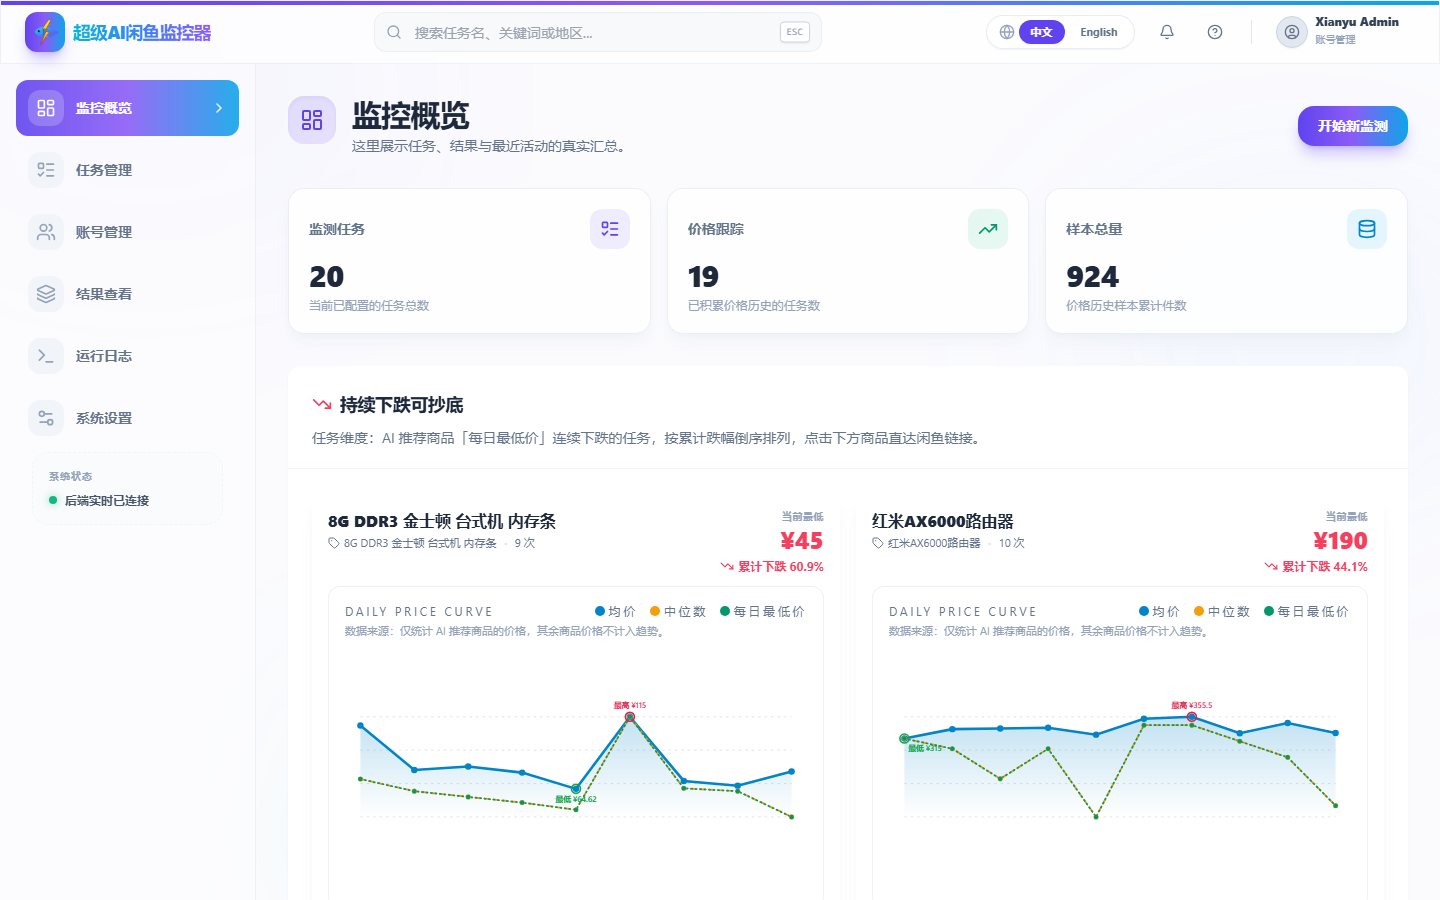
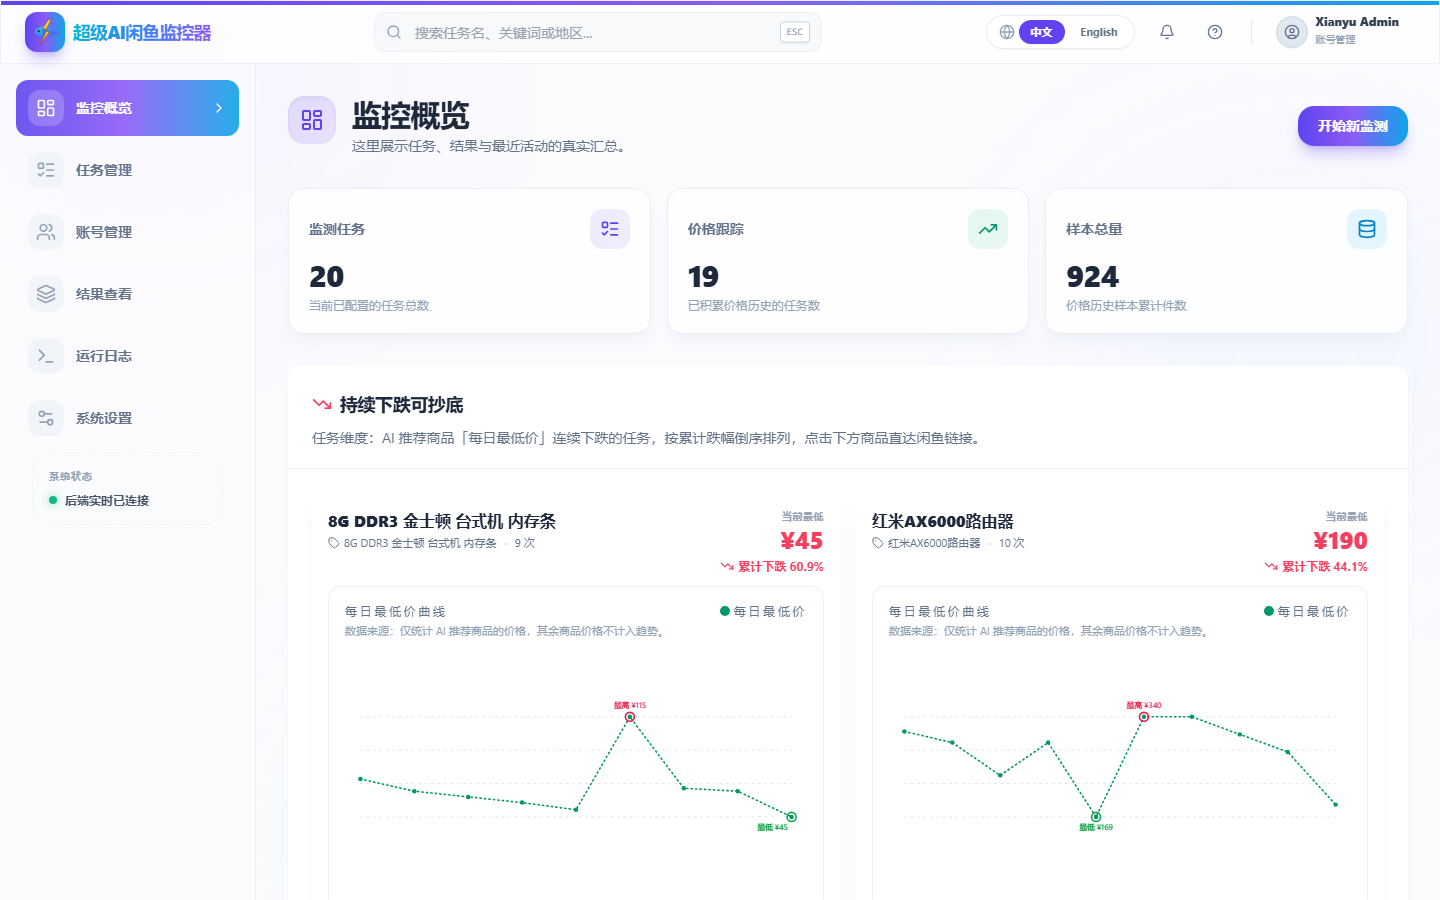
feat(dashboard): 抄底卡片图表简化为「每日最低价曲线 + 最高最低标记」
PriceTrendChart 新增 mode 属性（'full' | 'min-only'）：
- full（默认，原行为）：均价 / 中位数 / 每日最低价 三条线 + 极值标记
- min-only：仅绘制每日最低价单条线，极值标记基准改为 min_price 曲线
- 顶部 legend、SVG paths/area/circles 全部按 mode 条件渲染，互不影响

DashboardView 抄底卡片启用 mode="min-only"，dipChartPoints 把 avg/median 置 null
（min-only 模式下本来就不会渲染，但显式置 null 可避免日均数据干扰曲线判定）。

新增 results.chart.dipHeader i18n key（zh/en）。

同步刷新 dashboard-top/dashboard-overview/tasks-overview 截图。

diff --git a/web-ui/src/components/results/PriceTrendChart.vue b/web-ui/src/components/results/PriceTrendChart.vue
@@ -9,10 +9,17 @@ interface TrendPoint {
   min_price?: number | null
 }
 
-const props = defineProps<{
-  points: TrendPoint[]
-}>()
+type ChartMode = 'full' | 'min-only'
+
+const props = withDefaults(
+  defineProps<{
+    points: TrendPoint[]
+    mode?: ChartMode
+  }>(),
+  { mode: 'full' },
+)
 const { t } = useI18n()
+const isMinOnly = computed(() => props.mode === 'min-only')
 
 const chartWidth = 720
 const chartHeight = 240
@@ -24,14 +31,25 @@ const axisLabelHeight = 20
 const extremeLabelGap = 30
 const plotBottom = chartHeight - axisLabelHeight - extremeLabelGap
 
-const validPoints = computed(() =>
-  props.points.filter((point) => point.avg_price !== null && point.avg_price !== undefined)
-)
+const validPoints = computed(() => {
+  if (isMinOnly.value) {
+    return props.points.filter(
+      (point) => typeof point.min_price === 'number',
+    )
+  }
+  return props.points.filter(
+    (point) => point.avg_price !== null && point.avg_price !== undefined,
+  )
+})
 
 const valueRange = computed(() => {
-  const values = validPoints.value
-    .flatMap((point) => [point.avg_price, point.median_price, point.min_price])
-    .filter((value): value is number => typeof value === 'number')
+  const values = isMinOnly.value
+    ? validPoints.value
+        .map((point) => point.min_price)
+        .filter((value): value is number => typeof value === 'number')
+    : validPoints.value
+        .flatMap((point) => [point.avg_price, point.median_price, point.min_price])
+        .filter((value): value is number => typeof value === 'number')
   if (values.length === 0) {
     return { min: 0, max: 1 }
   }
@@ -82,11 +100,15 @@ function buildPath(values: Array<number | null>) {
   return commands.join(' ')
 }
 
-const avgPath = computed(() => buildPath(validPoints.value.map((point) => point.avg_price)))
-const medianPath = computed(() => buildPath(validPoints.value.map((point) => point.median_price)))
+const avgPath = computed(() =>
+  isMinOnly.value ? '' : buildPath(validPoints.value.map((point) => point.avg_price)),
+)
+const medianPath = computed(() =>
+  isMinOnly.value ? '' : buildPath(validPoints.value.map((point) => point.median_price)),
+)
 // 每日最低价：当天 AI 推荐商品中价格最低的那一件，用于观察"底价"走势。
 const minPath = computed(() =>
-  buildPath(validPoints.value.map((point) => (typeof point.min_price === 'number' ? point.min_price : null)))
+  buildPath(validPoints.value.map((point) => (typeof point.min_price === 'number' ? point.min_price : null))),
 )
 const areaPath = computed(() => {
   if (!avgPath.value || validPoints.value.length === 0) return ''
@@ -100,14 +122,25 @@ interface ExtremePoint {
   point: TrendPoint
 }
 
-// 最高价/最低价标记：以 AI 推荐商品的均价曲线为准，标出曲线中的极值点。
+// 极值标记基准曲线：min-only 模式下使用 min_price 曲线，否则用 avg_price 曲线。
+function extremeValue(point: TrendPoint): number | null {
+  if (isMinOnly.value) {
+    return typeof point.min_price === 'number' ? point.min_price : null
+  }
+  return typeof point.avg_price === 'number' ? point.avg_price : null
+}
+
+// 最高价/最低价标记：在基准曲线上标出极值点。
 const highPoint = computed<ExtremePoint | null>(() => {
   const points = validPoints.value
   let best: ExtremePoint | null = null
   for (let index = 0; index < points.length; index += 1) {
     const point = points[index]
-    if (!point || typeof point.avg_price !== 'number') continue
-    if (!best || point.avg_price > (best.point.avg_price as number)) {
+    if (!point) continue
+    const value = extremeValue(point)
+    if (value === null) continue
+    const bestValue = best ? extremeValue(best.point) : null
+    if (bestValue === null || value > bestValue) {
       best = { index, point }
     }
   }
@@ -119,32 +152,47 @@ const lowPoint = computed<ExtremePoint | null>(() => {
   let best: ExtremePoint | null = null
   for (let index = 0; index < points.length; index += 1) {
     const point = points[index]
-    if (!point || typeof point.avg_price !== 'number') continue
-    if (!best || point.avg_price < (best.point.avg_price as number)) {
+    if (!point) continue
+    const value = extremeValue(point)
+    if (value === null) continue
+    const bestValue = best ? extremeValue(best.point) : null
+    if (bestValue === null || value < bestValue) {
       best = { index, point }
     }
   }
   return best
 })
+
+function extremePrice(point: TrendPoint): number | null {
+  return extremeValue(point)
+}
 </script>
 
 <template>
   <div class="app-surface-subtle p-4">
     <div class="mb-1 flex flex-col gap-3 text-xs uppercase tracking-[0.22em] text-slate-500 sm:flex-row sm:items-center sm:justify-between">
-      <span>Daily Price Curve</span>
+      <span>{{ isMinOnly ? t('results.chart.dipHeader') : 'Daily Price Curve' }}</span>
       <div class="flex items-center gap-3">
-        <span class="inline-flex items-center gap-1">
-          <span class="h-2.5 w-2.5 rounded-full bg-sky-600" />
-          {{ t('results.chart.avgPrice') }}
-        </span>
-        <span class="inline-flex items-center gap-1">
-          <span class="h-2.5 w-2.5 rounded-full bg-amber-500" />
-          {{ t('results.chart.medianPrice') }}
-        </span>
-        <span class="inline-flex items-center gap-1">
-          <span class="h-2.5 w-2.5 rounded-full bg-emerald-600" />
-          {{ t('results.chart.minPrice') }}
-        </span>
+        <template v-if="isMinOnly">
+          <span class="inline-flex items-center gap-1">
+            <span class="h-2.5 w-2.5 rounded-full bg-emerald-600" />
+            {{ t('results.chart.minPrice') }}
+          </span>
+        </template>
+        <template v-else>
+          <span class="inline-flex items-center gap-1">
+            <span class="h-2.5 w-2.5 rounded-full bg-sky-600" />
+            {{ t('results.chart.avgPrice') }}
+          </span>
+          <span class="inline-flex items-center gap-1">
+            <span class="h-2.5 w-2.5 rounded-full bg-amber-500" />
+            {{ t('results.chart.medianPrice') }}
+          </span>
+          <span class="inline-flex items-center gap-1">
+            <span class="h-2.5 w-2.5 rounded-full bg-emerald-600" />
+            {{ t('results.chart.minPrice') }}
+          </span>
+        </template>
       </div>
     </div>
     <p class="mb-3 text-[11px] normal-case tracking-normal text-slate-400">
@@ -177,14 +225,16 @@ const lowPoint = computed<ExtremePoint | null>(() => {
           />
         </g>
 
-        <path :d="areaPath" fill="url(#avg-area-fill)" />
-        <path :d="avgPath" fill="none" stroke="#0284c7" stroke-width="4" stroke-linecap="round" />
-        <path :d="medianPath" fill="none" stroke="#f59e0b" stroke-width="3" stroke-dasharray="8 6" stroke-linecap="round" />
+        <path v-if="!isMinOnly" :d="areaPath" fill="url(#avg-area-fill)" />
+        <path v-if="!isMinOnly" :d="avgPath" fill="none" stroke="#0284c7" stroke-width="4" stroke-linecap="round" />
+        <path v-if="!isMinOnly" :d="medianPath" fill="none" stroke="#f59e0b" stroke-width="3" stroke-dasharray="8 6" stroke-linecap="round" />
         <path :d="minPath" fill="none" stroke="#059669" stroke-width="2.5" stroke-dasharray="2 5" stroke-linecap="round" />
 
         <g v-for="(point, index) in validPoints" :key="point.day">
-          <circle :cx="resolveX(index)" :cy="resolveY(point.avg_price as number)" r="5" fill="#0284c7" />
-          <circle :cx="resolveX(index)" :cy="resolveY(point.median_price as number)" r="4" fill="#f59e0b" />
+          <template v-if="!isMinOnly">
+            <circle :cx="resolveX(index)" :cy="resolveY(point.avg_price as number)" r="5" fill="#0284c7" />
+            <circle :cx="resolveX(index)" :cy="resolveY(point.median_price as number)" r="4" fill="#f59e0b" />
+          </template>
           <circle
             v-if="typeof point.min_price === 'number'"
             :cx="resolveX(index)"
@@ -207,7 +257,7 @@ const lowPoint = computed<ExtremePoint | null>(() => {
         <g v-if="highPoint">
           <circle
             :cx="resolveX(highPoint.index)"
-            :cy="resolveY(highPoint.point.avg_price as number)"
+            :cy="resolveY(extremePrice(highPoint.point) as number)"
             r="7"
             fill="none"
             stroke="#e11d48"
@@ -215,13 +265,13 @@ const lowPoint = computed<ExtremePoint | null>(() => {
           />
           <text
             :x="labelX(highPoint.index)"
-            :y="resolveY(highPoint.point.avg_price as number) - 14"
+            :y="resolveY(extremePrice(highPoint.point) as number) - 14"
             :text-anchor="labelAnchor(highPoint.index)"
             fill="#e11d48"
             font-size="12"
             font-weight="600"
           >
-            {{ t('results.chart.highMark', { price: highPoint.point.avg_price }) }}
+            {{ t('results.chart.highMark', { price: extremePrice(highPoint.point) }) }}
           </text>
         </g>
 
@@ -229,7 +279,7 @@ const lowPoint = computed<ExtremePoint | null>(() => {
         <g v-if="lowPoint && lowPoint.index !== highPoint?.index">
           <circle
             :cx="resolveX(lowPoint.index)"
-            :cy="resolveY(lowPoint.point.avg_price as number)"
+            :cy="resolveY(extremePrice(lowPoint.point) as number)"
             r="7"
             fill="none"
             stroke="#16a34a"
@@ -237,13 +287,13 @@ const lowPoint = computed<ExtremePoint | null>(() => {
           />
           <text
             :x="labelX(lowPoint.index)"
-            :y="resolveY(lowPoint.point.avg_price as number) + 20"
+            :y="resolveY(extremePrice(lowPoint.point) as number) + 20"
             :text-anchor="labelAnchor(lowPoint.index)"
             fill="#16a34a"
             font-size="12"
             font-weight="600"
           >
-            {{ t('results.chart.lowMark', { price: lowPoint.point.avg_price }) }}
+            {{ t('results.chart.lowMark', { price: extremePrice(lowPoint.point) }) }}
           </text>
         </g>
       </svg>

diff --git a/web-ui/src/views/DashboardView.vue b/web-ui/src/views/DashboardView.vue
@@ -54,8 +54,8 @@ function goCreateTask() {
 function dipChartPoints(task: { trend: Array<{ day: string; min_price: number; avg_price: number | null; sample_count: number }> }) {
   return task.trend.map((point) => ({
     day: point.day.slice(5),
-    avg_price: point.avg_price ?? point.min_price,
-    median_price: point.min_price,
+    avg_price: null,
+    median_price: null,
     min_price: point.min_price,
   }))
 }
@@ -143,7 +143,7 @@ function dipChartPoints(task: { trend: Array<{ day: string; min_price: number; a
             </div>
 
             <!-- Trend chart (daily min price curve) -->
-            <PriceTrendChart class="mt-3" :points="dipChartPoints(task)" />
+            <PriceTrendChart class="mt-3" :points="dipChartPoints(task)" mode="min-only" />
 
             <!-- Lowest-priced AI-recommended item in this task -->
             <div class="mt-3 rounded-xl border border-dashed border-rose-200 bg-rose-50/40 p-3">

diff --git a/web-ui/src/i18n/messages/zh-CN.ts b/web-ui/src/i18n/messages/zh-CN.ts
@@ -188,6 +188,7 @@ const zhCN = {
       avgPrice: '均价',
       medianPrice: '中位数',
       minPrice: '每日最低价',
+      dipHeader: '每日最低价曲线',
       noTrend: '暂无可绘制的趋势数据',
       aiSourceNote: '数据来源：仅统计 AI 推荐商品的价格，其余商品价格不计入趋势。',
       highMark: '最高 ¥{price}',

diff --git a/web-ui/src/i18n/messages/en-US.ts b/web-ui/src/i18n/messages/en-US.ts
@@ -188,6 +188,7 @@ const enUS = {
       avgPrice: 'Average',
       medianPrice: 'Median',
       minPrice: 'Daily Min',
+      dipHeader: 'Daily Min Price Curve',
       noTrend: 'No trend data to render yet',
       aiSourceNote: 'Data source: only AI-recommended items are counted; other prices are excluded.',
       highMark: 'High ¥{price}',
